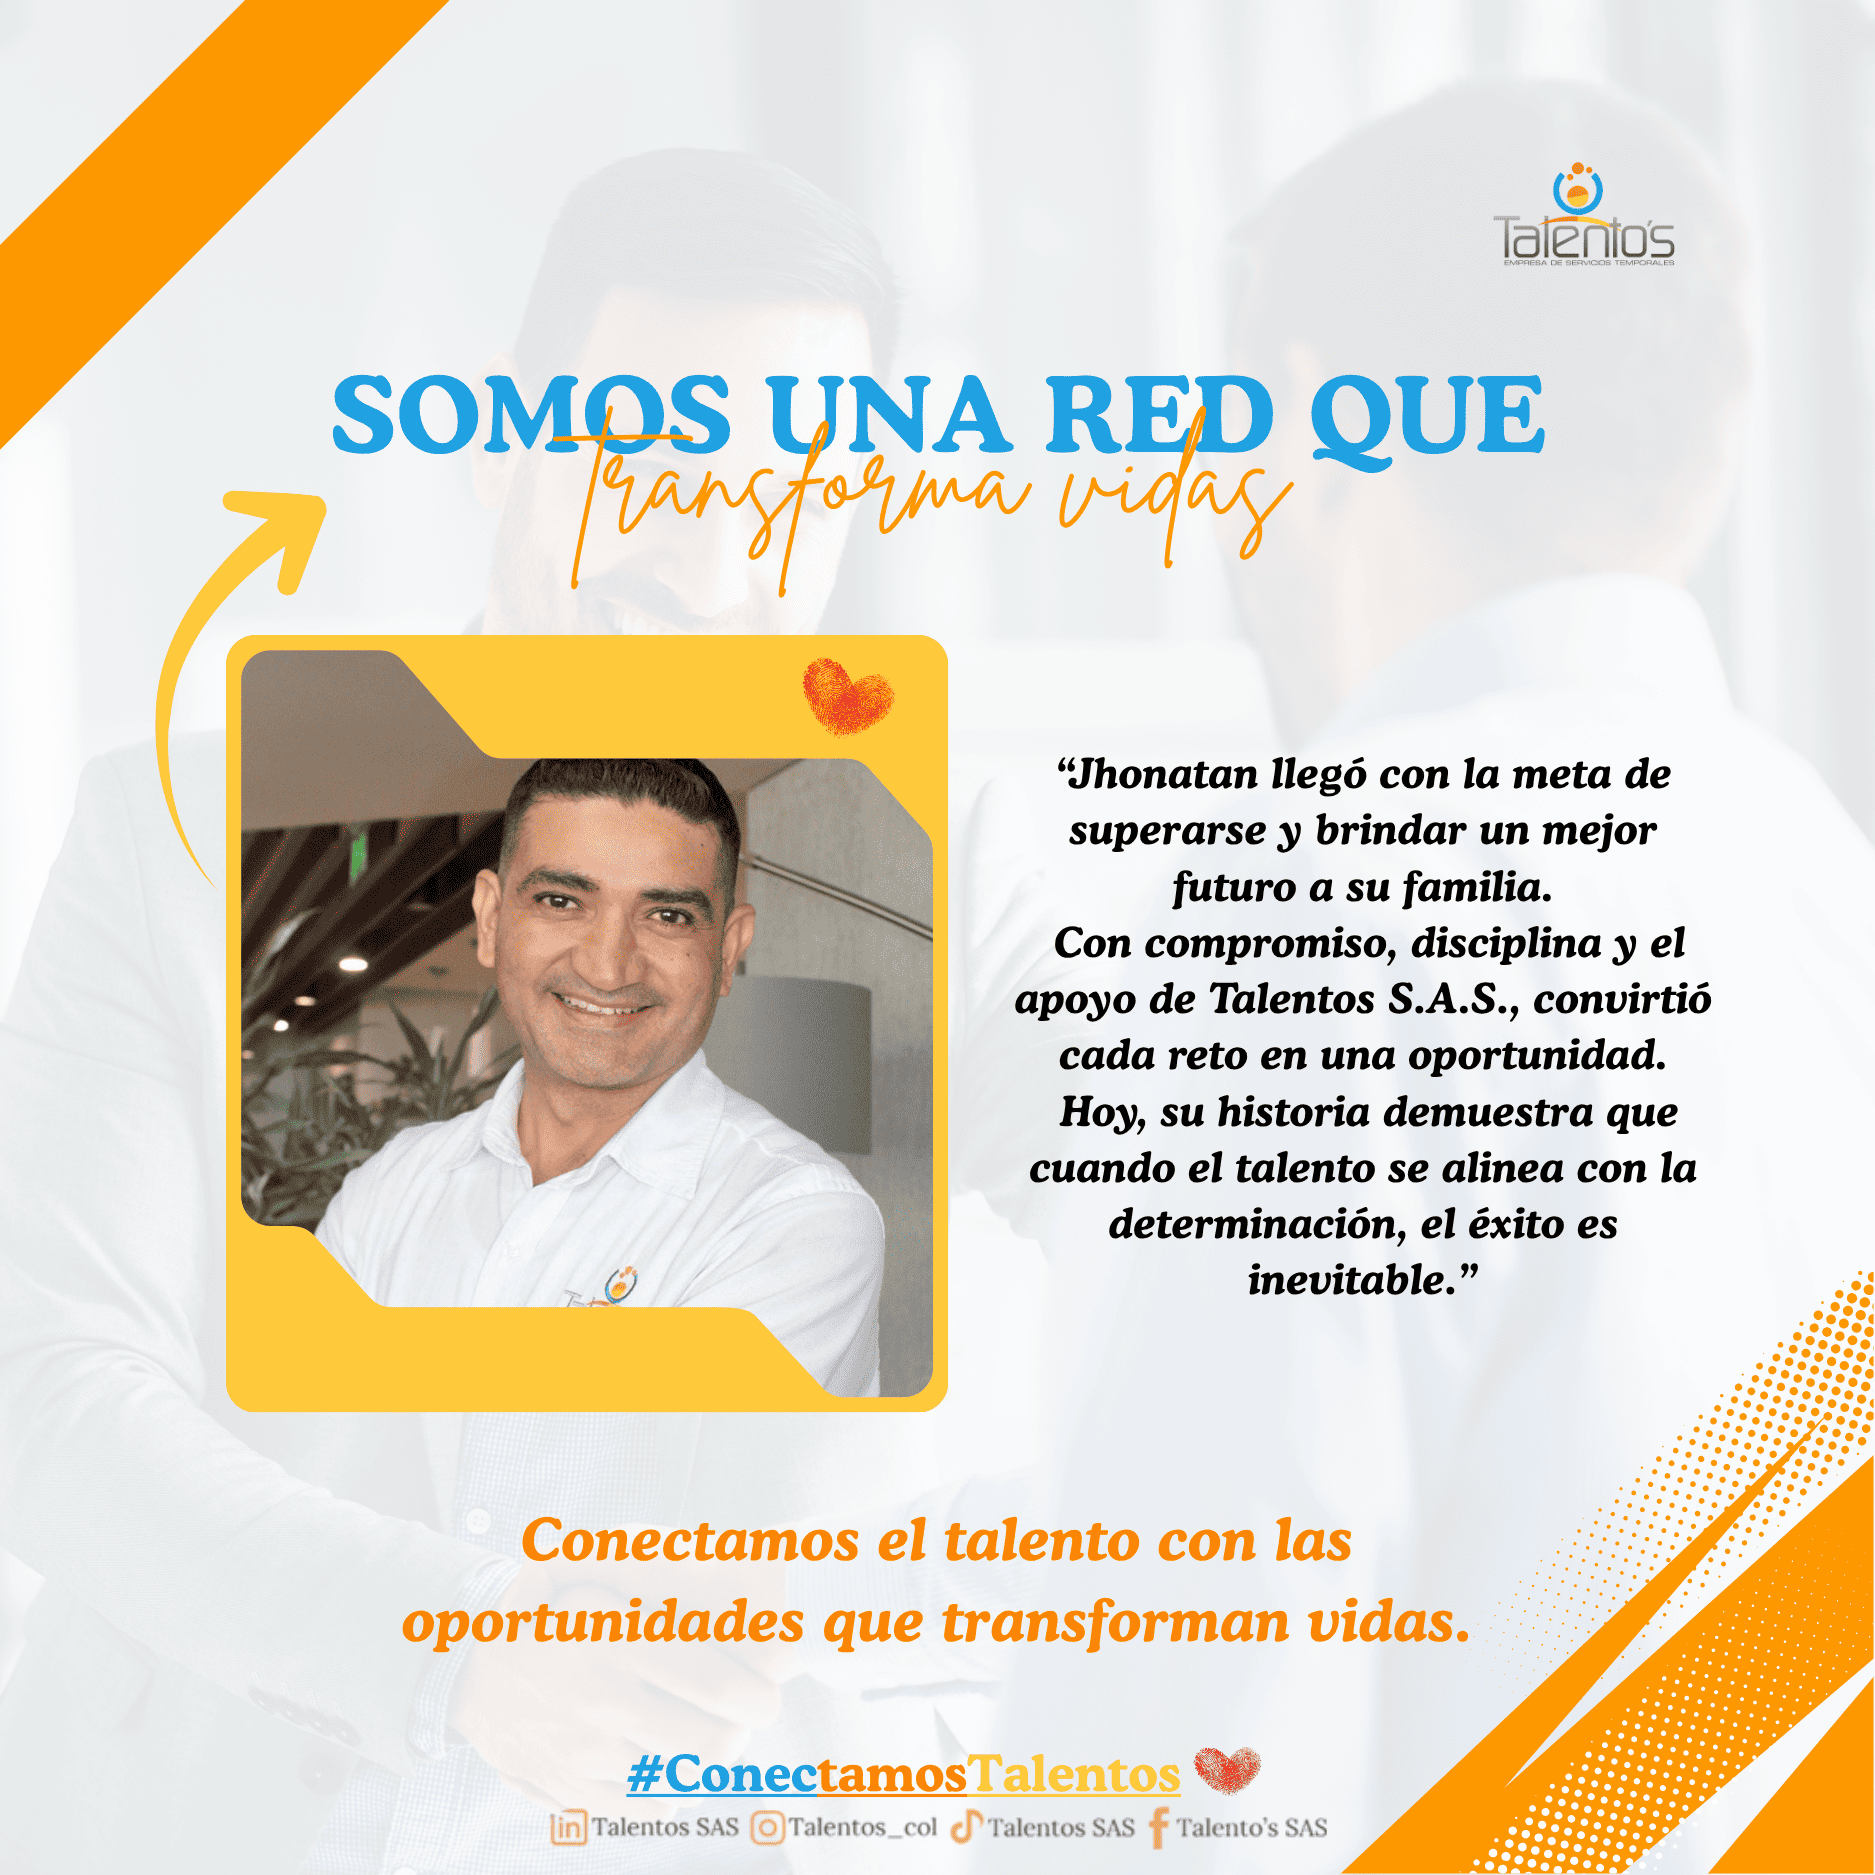
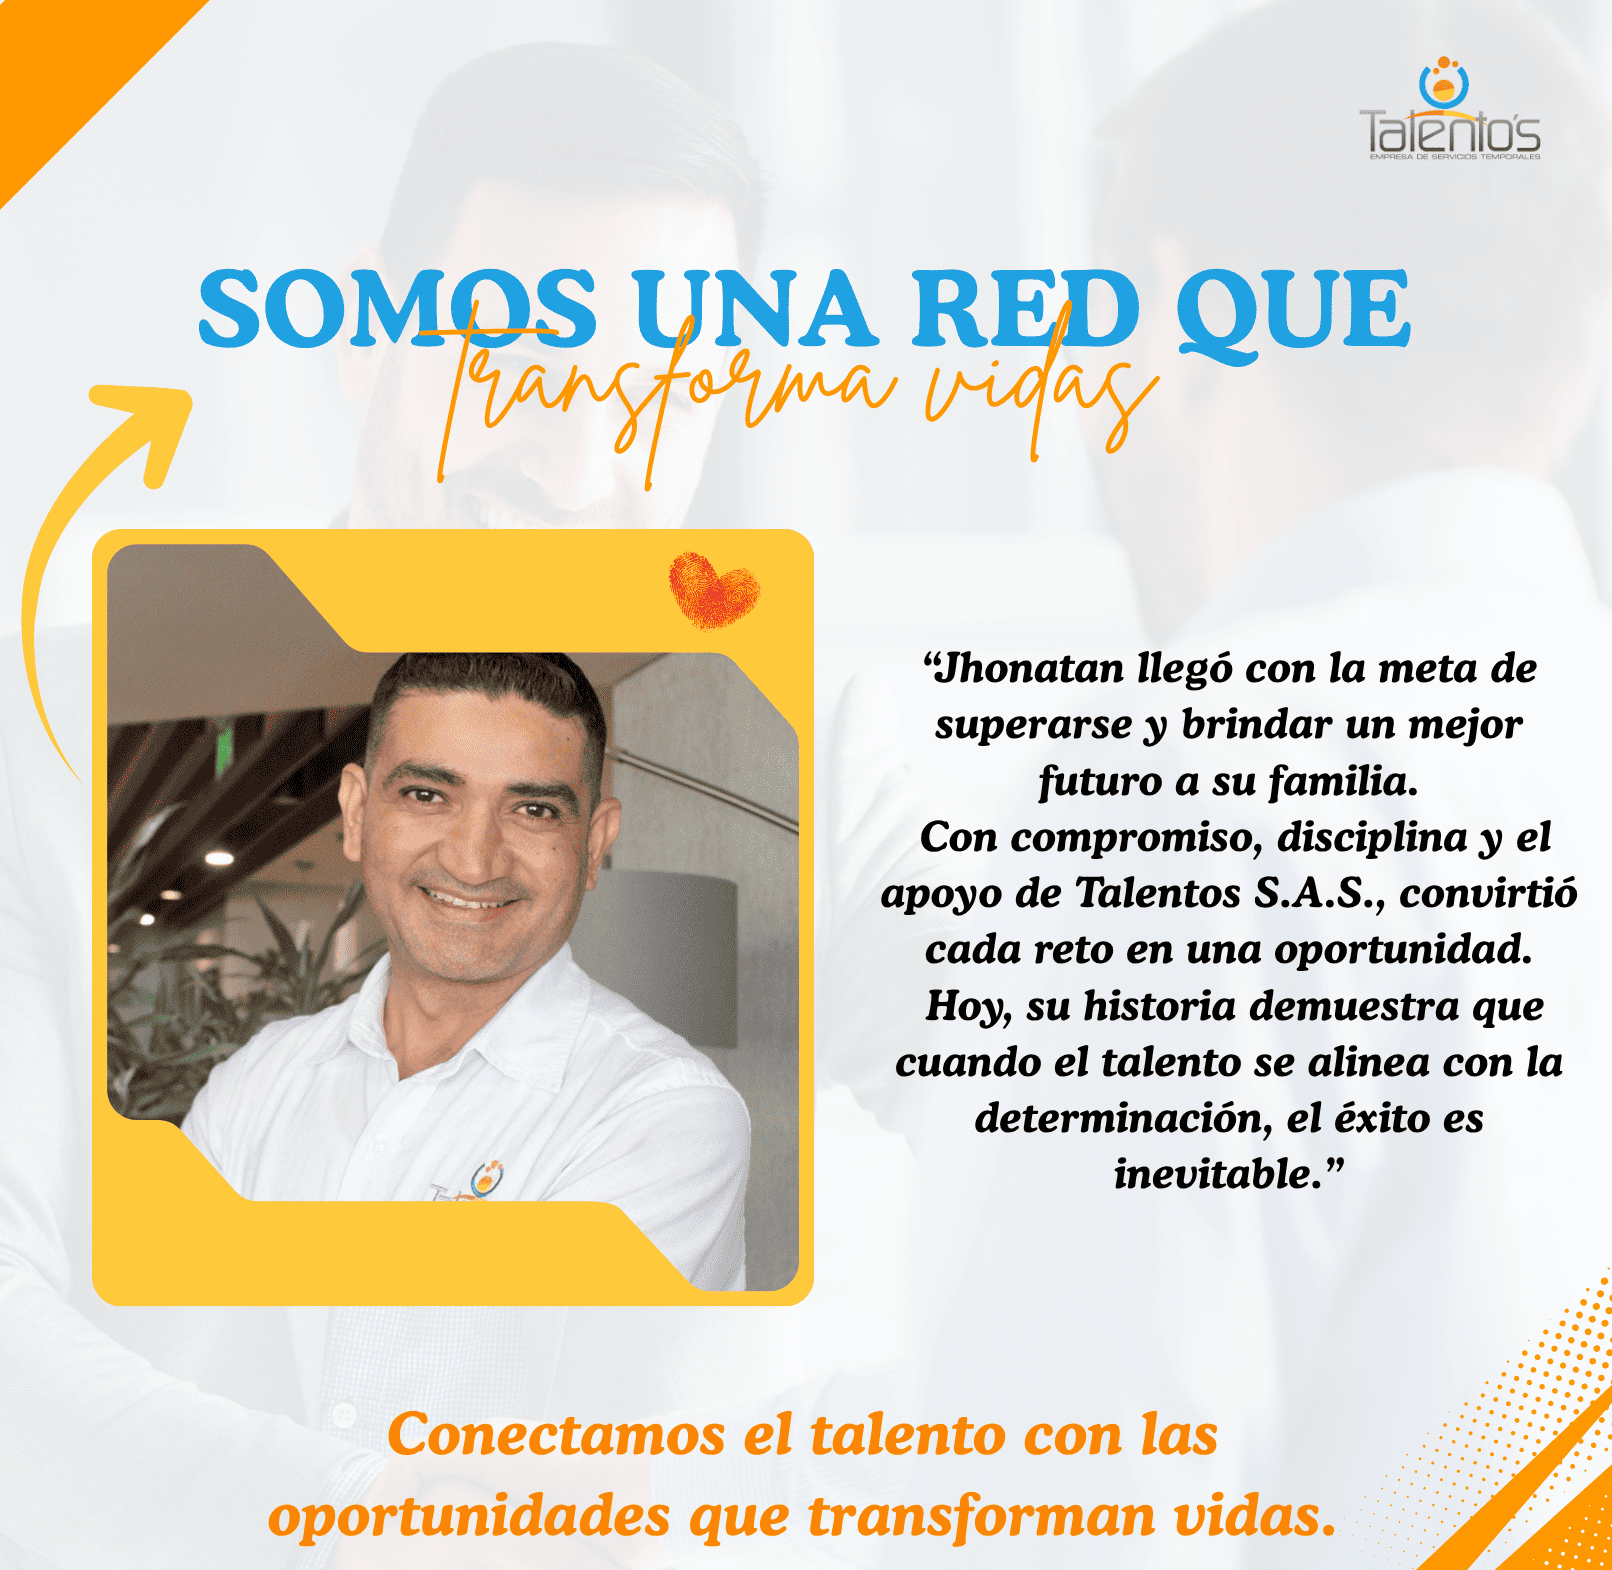
mejora de js, ccs y html

diff --git a/nuestra-empresa.html b/nuestra-empresa.html
@@ -75,16 +75,75 @@
             </div>
         </section>
 
-        <section class="valores-corporativos">
-            <h2 class="titulo-linea">Nuestros Valores</h2>
-            <div class="valores-grid">
-                <div class="valor-card" style="background-image: url('img/calidad.jpg');"><span>Calidad</span></div>
-                <div class="valor-card" style="background-image: url('img/Adaptabilidad.jpg');"><span>Adaptabilidad</span></div>
-                <div class="valor-card" style="background-image: url('img/cercania.jpg');"><span>Cercanía</span></div>
-                <div class="valor-card" style="background-image: url('img/compromiso.jpg');"><span>Compromiso</span></div>
-                <div class="valor-card" style="background-image: url('img/innovacion.jpg');"><span>Innovación</span></div>
-            </div>
-        </section>
+<section class="valores-seccion">
+  <div class="valores-header">
+    <h2 class="titulo-linea">Nuestros Valores</h2>
+  </div>
+
+  <div class="valores-grid-servicios">
+    
+    <div class="valor-card-s">
+      <div class="valor-img-container">
+        <img src="img/calidad.jpg" alt="Calidad">
+        <div class="valor-explicacion">
+          <div class="texto-interno">
+            <h3>Calidad</h3>
+            <p>En Talentos SAS, la calidad se percibe en la precisión de nuestros procesos de selección y la excelencia en el servicio al cliente, asegurando resultados confiables en cada contratación.</p>
+          </div>
+        </div>
+      </div>
+    </div>
+
+    <div class="valor-card-s">
+      <div class="valor-img-container">
+        <img src="img/Adaptabilidad.jpg" alt="Adaptabilidad">
+        <div class="valor-explicacion">
+          <div class="texto-interno">
+            <h3>Adaptabilidad</h3>
+            <p>Nos ajustamos a las necesidades cambiantes del mercado laboral y de nuestros clientes, ofreciendo soluciones flexibles que evolucionan junto a su organización.</p>
+          </div>
+        </div>
+      </div>
+    </div>
+
+    <div class="valor-card-s">
+      <div class="valor-img-container">
+        <img src="img/cercania.jpg" alt="Cercanía">
+        <div class="valor-explicacion">
+          <div class="texto-interno">
+            <h3>Cercanía</h3>
+            <p>Mantenemos un trato humano y personalizado. Percibimos este valor al construir relaciones de confianza a largo plazo tanto con empresas como con candidatos.</p>
+          </div>
+        </div>
+      </div>
+    </div>
+
+    <div class="valor-card-s">
+      <div class="valor-img-container">
+        <img src="img/compromiso.jpg" alt="Compromiso">
+        <div class="valor-explicacion">
+          <div class="texto-interno">
+            <h3>Compromiso</h3>
+            <p>Nuestra dedicación es total con el éxito de nuestros aliados. Se refleja en el cumplimiento riguroso de tiempos y en la ética profesional que nos caracteriza.</p>
+          </div>
+        </div>
+      </div>
+    </div>
+
+    <div class="valor-card-s">
+      <div class="valor-img-container">
+        <img src="img/innovacion.jpg" alt="Innovación">
+        <div class="valor-explicacion">
+          <div class="texto-interno">
+            <h3>Innovación</h3>
+            <p>Buscamos constantemente nuevas herramientas tecnológicas y metodologías en RRHH para optimizar la gestión del talento y conectar mejor el futuro laboral.</p>
+          </div>
+        </div>
+      </div>
+    </div>
+
+  </div>
+</section>
 
         <section class="colaboradores-empresa">
             <h2 class="titulo-linea">El Equipo detrás de Talentos SAS</h2>
@@ -125,13 +184,19 @@
                     <a href="index.html#noticias">Noticias RRHH</a>
                     <a href="index.html#servicios">Servicios</a>
                 </div>
-                <div class="col">
-                    <h3>Contacto</h3>
-                    <p><i class="fas fa-phone"></i> (605) 274 5555</p>
-                    <p><i class="fas fa-envelope"></i> comercial@talentossas.com</p>
-                </div>
-            </div>
-        </div>
+
+          <div class="col">
+        <h3>Contacto</h3>
+        <p><a href="https://wa.me/573178936636?text=Hola,%20vengo%20de%20la%20página%20web%20y%20necesito%20información" 
+     target="_blank" 
+     class="link-contacto-footer"><i class="fas fa-phone"></i> 317 8936636</p>
+        <p><i class="fas fa-envelope"></i> ggestion@talentossas.com.co</p>
+        <a href="#inicio" class="back-to-top">Volver Arriba ↑</a>
+      </div>
+
+    </div>
+  </div>
+
         <div class="footer-bottom">
             <p>© 2026 Talentos SAS — Todos los derechos reservados.</p>
         </div>

diff --git a/empresa-estilos.css b/empresa-estilos.css
@@ -47,32 +47,87 @@
 .mv-card:hover { transform: translateY(-10px); border-top-color: var(--naranja); }
 .mv-card h3 { color: var(--azul); font-size: 2rem; margin-bottom: 1.5rem; }
 
-/* Valores Expandibles */
-.valores-grid { display: flex; height: 350px; gap: 1rem; padding: 2rem; max-width: 1100px; margin: 0 auto; }
-.valor-card {
-    flex: 1;
-    position: relative;
-    border-radius: 15px;
-    background-position: center;
-    background-size: cover;
-    transition: all .6s cubic-bezier(.25,.4,.45,1.4);
-    display: flex;
-    align-items: flex-end;
-    padding: 1.5rem;
-    overflow: hidden;
-    cursor: pointer;
+/* ======= DISEÑO DE VALORES CON EXPLICACIÓN ======= */
+.valores-grid-servicios {
+    display: grid;
+    grid-template-columns: repeat(3, 1fr); /* Mantenemos 3 columnas para que sean anchas */
+    gap: 30px;
+    max-width: 1200px;
+    margin: 0 auto;
+    padding: 2rem;
 }
-.valor-card::after {
-    content: '';
-    position: absolute;
-    inset: 0;
-    background: linear-gradient(to top, rgba(0,0,0,0.8), transparent);
-    z-index: 1;
-}
-.valor-card span { color: white; font-weight: 700; z-index: 2; font-size: 1.2rem; opacity: 0.8; }
-.valor-card:hover { flex: 4; }
-.valor-card:hover span { opacity: 1; font-size: 1.5rem; }
 
+.valor-card-s {
+    background: #fff;
+    border-radius: 15px;
+    overflow: hidden;
+    position: relative;
+    box-shadow: var(--sombra-suave);
+    height: 300px; /* Un poco más de altura para el texto */
+    transition: transform 0.3s ease;
+}
+
+.valor-card-s:hover {
+    transform: translateY(-5px);
+}
+
+.valor-img-container {
+    width: 100%;
+    height: 100%;
+    position: relative;
+}
+
+.valor-img-container img {
+    width: 100%;
+    height: 100%;
+    object-fit: contain; /* Para que no se corte el texto de tu imagen */
+    background-color: #f9f9f9;
+}
+
+/* Cuadro de texto que aparece al pasar el cursor */
+.valor-explicacion {
+    position: absolute;
+    top: 0;
+    left: 0;
+    width: 100%;
+    height: 100%;
+    background: rgba(32, 161, 226, 0.727); /* Azul Talentos con opacidad alta */
+    display: flex;
+    align-items: center;
+    justify-content: center;
+    text-align: center;
+    padding: 20px;
+    opacity: 0;
+    transition: opacity 0.4s ease;
+    z-index: 5;
+}
+
+.valor-card-s:hover .valor-explicacion {
+    opacity: 1;
+}
+
+.texto-interno h3 {
+    color: var(--amarillo);
+    margin-bottom: 10px;
+    font-size: 1.4rem;
+    text-transform: uppercase;
+}
+
+.texto-interno p {
+    color: white;
+    font-size: 0.95rem;
+    line-height: 1.5;
+    font-weight: 400;
+}
+
+/* Responsivo */
+@media (max-width: 1024px) {
+    .valores-grid-servicios { grid-template-columns: repeat(2, 1fr); }
+}
+@media (max-width: 768px) {
+    .valores-grid-servicios { grid-template-columns: 1fr; }
+    .valor-card-s { height: 250px; }
+}
 /* ======= SECCIÓN COLABORADORES (EQUIPO) ======= */
 
 .colaboradores-empresa {

diff --git a/carrusel.js b/carrusel.js
@@ -1,34 +1,3 @@
-/* ======= CARRUSEL HOME (HERO) ======= */
-let slideActual = 0;
-const slidesHero = document.querySelectorAll('.hero-container .slide');
-const dots = document.querySelectorAll('.dot');
-
-if (slidesHero.length > 0) {
-    function mostrarSlideHero(n) {
-        slidesHero.forEach(s => s.classList.remove('activa'));
-        dots.forEach(d => d.classList.remove('activa'));
-        slideActual = (n + slidesHero.length) % slidesHero.length;
-        slidesHero[slideActual].classList.add('activa');
-        if (dots[slideActual]) dots[slideActual].classList.add('activa');
-    }
-
-    window.cambiarSlide = (paso) => {
-        mostrarSlideHero(slideActual + paso);
-        reiniciarTimer();
-    };
-
-    window.irASlide = (n) => {
-        mostrarSlideHero(n);
-        reiniciarTimer();
-    };
-
-    let slideTimer = setInterval(() => cambiarSlide(1), 6000);
-    function reiniciarTimer() {
-        clearInterval(slideTimer);
-        slideTimer = setInterval(() => cambiarSlide(1), 6000);
-    }
-}
-
 /* ======= CARRUSEL EQUIPO (PÁGINA EMPRESA) ======= */
 const track = document.querySelector('.carrusel-track');
 const slidesEquipo = document.querySelectorAll('.slide-equipo');
@@ -37,21 +6,46 @@ const btnPrev = document.querySelector('.carrusel-btn.prev');
 
 if (track && slidesEquipo.length > 0) {
     let indexEquipo = 0;
+    let autoPlayEquipo;
+
     const moverEquipo = () => {
         track.style.transform = `translateX(-${indexEquipo * 100}%)`;
     };
 
-    btnNext.addEventListener('click', () => {
+    const siguienteEquipo = () => {
         indexEquipo = (indexEquipo + 1) % slidesEquipo.length;
         moverEquipo();
+    };
+
+    const anteriorEquipo = () => {
+        indexEquipo = (indexEquipo - 1 + slidesEquipo.length) % slidesEquipo.length;
+        moverEquipo();
+    };
+
+    // Función para iniciar/reiniciar el temporizador automático
+    const iniciarAutoPlay = () => {
+        clearInterval(autoPlayEquipo);
+        autoPlayEquipo = setInterval(siguienteEquipo, 5000); // Cambia cada 5 segundos
+    };
+
+    // Eventos de botones
+    btnNext.addEventListener('click', () => {
+        siguienteEquipo();
+        iniciarAutoPlay(); // Reinicia el tiempo al hacer clic
     });
 
     btnPrev.addEventListener('click', () => {
-        indexEquipo = (indexEquipo - 1 + slidesEquipo.length) % slidesEquipo.length;
-        moverEquipo();
+        anteriorEquipo();
+        iniciarAutoPlay(); // Reinicia el tiempo al hacer clic
     });
-}
 
+    // Iniciar el carrusel automático al cargar
+    iniciarAutoPlay();
+
+    // Opcional: Pausar cuando el mouse está encima
+    track.addEventListener('mouseenter', () => clearInterval(autoPlayEquipo));
+    track.addEventListener('mouseleave', iniciarAutoPlay);
+}
 /* ======= HEADER Y MENÚ MÓVIL ======= */
 document.addEventListener('DOMContentLoaded', () => {
     const header = document.querySelector('.barra-inicio');

diff --git a/index.html b/index.html
@@ -86,7 +86,7 @@
 <!-- === CIFRAS DE IMPACTO === -->
 <section class="cifras-impacto">
   <div class="cifra-item">
-    <span class="numero">+15</span>
+    <span class="numero">+ 14</span>
     <p>Años de experiencia</p>
   </div>
   <div class="cifra-item destacado">
@@ -348,8 +348,10 @@
 
       <div class="col">
         <h3>Contacto</h3>
-        <p><i class="fas fa-phone"></i> (605) 274 5555</p>
-        <p><i class="fas fa-envelope"></i> comercial@talentossas.com</p>
+        <p><a href="https://wa.me/573178936636?text=Hola,%20vengo%20de%20la%20página%20web%20y%20necesito%20información" 
+     target="_blank" 
+     class="link-contacto-footer"><i class="fas fa-phone"></i> 317 8936636</p>
+        <p><i class="fas fa-envelope"></i> ggestion@talentossas.com.co</p>
         <a href="#inicio" class="back-to-top">Volver Arriba ↑</a>
       </div>
 

diff --git a/styles.css b/styles.css
@@ -6,6 +6,8 @@
   --amarillo: #feca3b;
   --naranja: #f58b35;
   --negro: #000000;
+  --azul-oscuro: #1a2b3c; 
+  --texto-suave: #4a4a4a;
   --sombra-suave: 0 4px 10px rgba(0, 0, 0, 0.1);
 }
 
